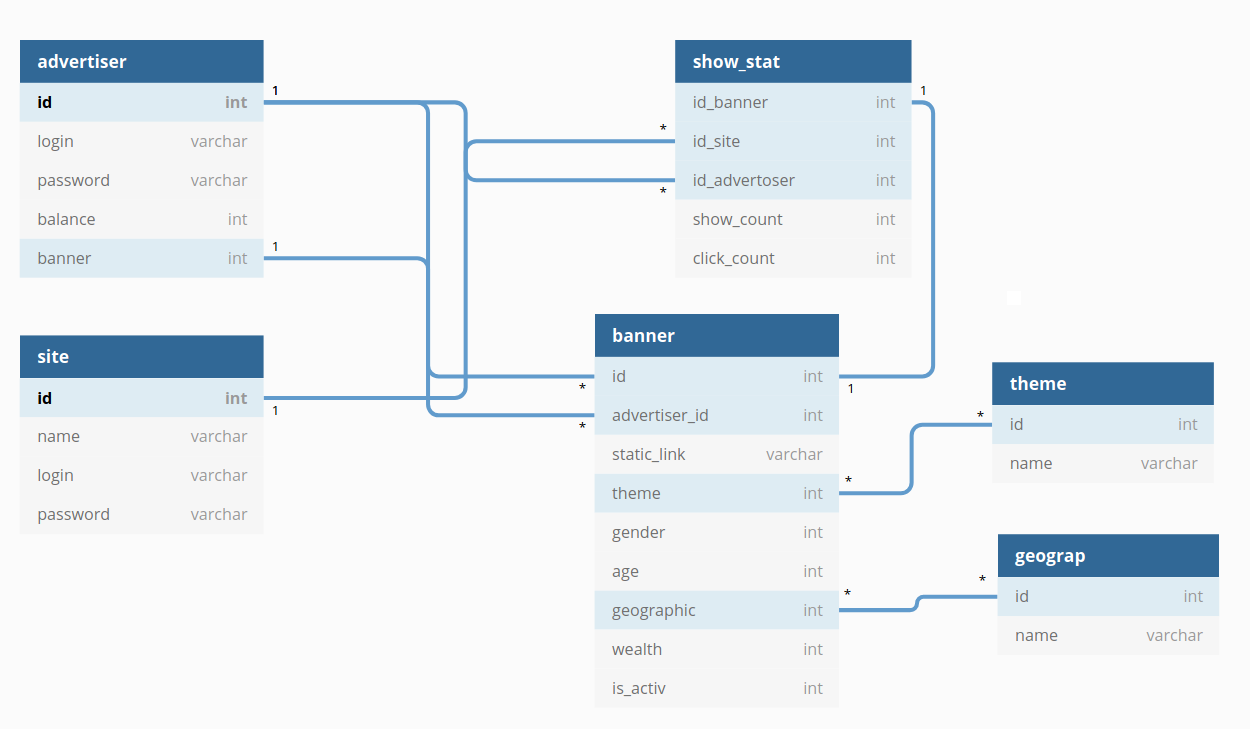
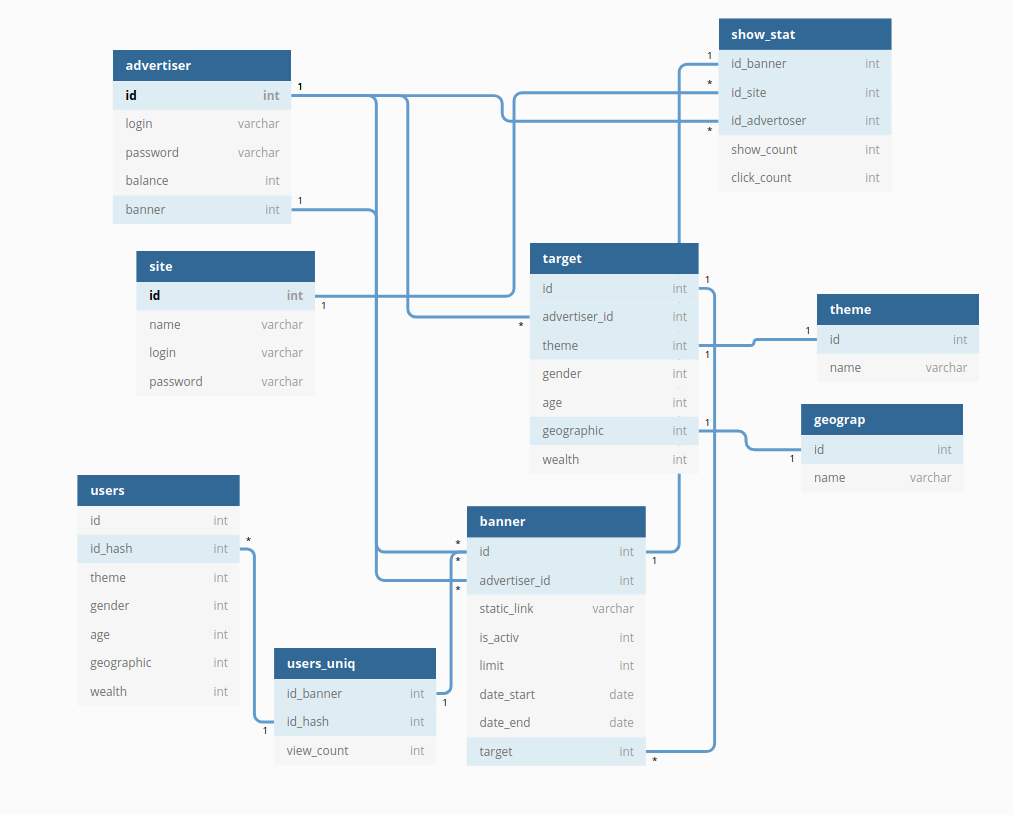
fix

diff --git a/README.md b/README.md
@@ -2,7 +2,7 @@
 
 ## 1. Выбор темы
 
-#### Система контекстной рекламы
+#### Система таргетинговой рекламы
 
 Похожие сервисы: my target, РСЯ
 
@@ -32,9 +32,8 @@
      + Общая аудитория — 100 миллионов пользователей (85% рунета)
      + Среднесуточная аудитория — 75 миллионов пользователей
      + Средний размер контента — 200 КБ
-     + RPS — 2000 (уточнял на сдачи ДЗ 3)
-     + request per day — 172 800 000
-     + Нагрузка на статику RPS * вес объявления (без оверхеда протоколов) — 0.3 ГБ/с
+     + RPS — 200 000 (пик активности 400 000)
+     + Нагрузка на статику RPS * вес объявления (без оверхеда протоколов, без сжатия) — 57,22 ГБ/с
      
 
 ## 4. Логическая схема базы данных
@@ -47,16 +46,30 @@
 
 * Таблица banner 
     + static_link ссылка на файл объявления
-    + theme - связь с таблицей тематик
-    + gender - пол ЦА (0 - муж, 1 - жен, 3 - не важен)
-    + age - возраст (заранее определенный id для возраста или комбинаций возрастов)
-    + geographic - связь с таблицей месторасположения
-    + wealth - уровень обеспеченности (1-10, 11 - не важен)
     + is_activ - статус объявления (0 -  не активно, 1 - активно, 2 - на модерации, 3 - блокировка)
-    + Данная таблица может дополниться новыми необходимыми параметрами для объявления, url для перехода.
+    + limit - ограничение показов
+    + date_start/end - временное ограничение показов
+    + target - ссылка на таргетинг
+
+* Таблица target (таблица для таргетингов компании) 
+     + theme - связь с таблицей тематик
+     + gender - пол ЦА (0 - муж, 1 - жен, 3 - не важен)
+     + age - возраст (заранее определенный id для возраста или комбинаций возрастов)
+     + geographic - связь с таблицей месторасположения
+     + wealth - уровень обеспеченности (1-10, 11 - не важен)
     
     
 * Таблица show_stat для сбора статистики по показам и переходам   
+
+* Таблица users_uniq - это таблица для отслеживания уникальных пользователей.
+Для определения уникального пользователя используется комбинация из ip, браузера или профиля на ресурсе
+и параметров пользователя(см. таблица target). Дальше все эти параметры преобразуются в один массив байт и передаются в хеш функцию.
+Хеш функцию стоит выбирать исходя из скорости её работы. Криптографическая стойкость роли не играет.
+После получения хеша мы сравниваем с хешом id_hash в БД. При совпадении увеличиваем view_count для данного банера.
+Если совпадения нет - добавляем запись.
+
+* Таблица users хранит пользователей с их параметрами.
+
     
 ## 5. Физическая системы хранения
 
@@ -69,12 +82,12 @@
 распространена и нам будет проще поддерживать и обеспечивать её работу. Еще отметим мощный механизм
 репликации. 
 
-#### Объявления и параметры объявлений (Tarantool)
+#### Объявления, таргетинги, пользователи (Tarantool)
 Для быстрой отдачи объявлений я решил использовать in-memory DB Tarantool. К главными
 преимуществам БД стоит отнести скорость, возможность репликации и шардинга (фреймворк Cartridge 
 упрощает реализацию и обеспечивает отказоустойчивость, переключаясь между серверами).
 Данные объявления меняются крайне редко (процесс модерации объявления), нет 
-необходимости часто экстренно синхронизовать реплики.
+необходимости часто экстренно синхронизовать реплики. Есть многокомпонентный индекс.
 Шардинг по группам тематик. (Разделяем логически тематики так, чтобы группы тематик не комбинировались между собой)
 Еще к плюсам можно отнести, что разработка данной БД идет в нашей стране.(дока-поддержка без перевода)
 
@@ -87,7 +100,7 @@
 Еще к плюсам можно отнести линейную масштабируемость и тот факт, что данные записываются пачками.
 Для статистики нам не нужна строгая резкая репликация, нам подойдет асинхронная репликация из ClickHouse.
 
-Статические файлы (bundle.js, index.html, css, все объявления хранятся на отдельном сервере со статикой - nginx)
+Статические файлы (bundle.js, index.html, css, все объявления хранятся на отдельных серверах со статикой - nginx)
 
 ## 6. Выбор прочих технологий
 
@@ -110,6 +123,39 @@
 
 * Сервис статистики - сервис для сбора статистики и логов по объявлениям.
 
+#### Взаимодействие между микросервисами
+
+* Сервис для управления ( для рекламодателей / конечных распространителей). Основные функции:
+    * Регистрация рекламодателя / площадки распространения. Создается запись в таблице advertiser / site.
+    Обращение к БД Postgres.
+    * Создание таргетинга  Создается запись в таблице target. Обращение к Tarantool.
+    * Создание объявлений. Создается запись в таблице banner. Обращение к Tarantool.
+    * Управление объявлением. Покупка limit у banner за balance. Обращение к Tarantool.
+    * Интерфейс для просмотра статистики. Интерфейс фильтров для запросов к ClickHouse. 
+
+    
+* Сервис объявлений
+    * Выдача объявлений. После чтения параметров запроса выполняется обращение к Tarantool с целью найти необходимое
+    объявление. Для определения "подходит ли нам это объявление" используется таблица target,
+    которая связана с banner.target.
+    * Отправка статистики. Строго после ответа конечному распространителю
+    выполняется запрос к ClickHouse. Запрос представляет собой лог происходящего и состоит из:
+    время отдачи объявления, id_объявления, id_таргетинга, advertiser_id, id_site. 
+    
+* Сервис статистики
+    * Сбор статистики. Предоставляет api для принятия статистики для сервиса объявлений.
+    После принятия запроса выполняется запись в ClickHouse. Все параметры записываются в одну таблицу.
+    Существуют также таблицы(в ClickHouse, чтобы не грузить другие БД при запросе статистики, нет на схеме БД)
+    для информации об объявлении, таргетинге, site.
+    Для улучшение скорости работы можно добавить отдельную таблицу - banner_show (объявления, инкремент показов).
+    Отметим, что за недостающей информацией сервис статистики может обратиться к БД Tarantool, в которой хранятся
+    таргетинги и объявления. Пример: Пришла запись с id_таргетинга, которого нет в ClickHouse. Сервис статистики
+    делает запрос к Tarantool для получения детальной информации о таргетинге по его id. Записывает информацию
+    о таргетинге и больше не спрашивает Tarantool по-данному таргетингу.
+    * Предоставление статистики. Предоставляет api для выдачи статистики для сервиса управления.
+    api способно обработать различные фильтры от сервиса управления и предоставить результат.      
+     
+
 #### Языки программирования
 
 * Сервис для управления и сервис статистики - Golang. Golang - современный, развивающийся язык, который заточен под
@@ -131,27 +177,23 @@
 * На стороне клиента - html, css, js. (+ получатели объявления могут являться моб клиентами)
 
 
-#### Отложенное выполнение для оптимизации
-Стоит дополнительно описать процесс подбора-выдачи объявления: при поступлении запроса упор делается 
-на скорость ответа. Сразу после подбора объявления оно отдается запросившему и сокет с запросившем клиентом закрывается.
-Только после этого выполняется запись о происходящем в сервис для статистики.
-
 
 ## 7. Расчет нагрузки и потребного оборудования
 
-#### Определим 5 основных типа серверов
+#### Определим 6 основных типа серверов
 
 * Бэк объявлений(C++)
 * Бэк для рекламодателя/площадки(Go)
 * БД для рекламодателя/площадки(Postgres)
 * БД для подбора объявления(Tarantool)
+* БД для хранения пользователи с таргетингами(Tarantool)
 * БД для сессий рекламодателей/площадки(Redis)
 
 
-* Бэк для выдачи объявлений
+* Бэк для выдачи объявлений/БД для подбора объявления
 ![db](./compute_cloud.png)
 
-Мощность бэка для рекламодателя/площадки составляет 1/4 бэка для выдачи объявлений
+Мощность бэка для рекламодателя/площадки составляет 1/20 бэка для выдачи объявлений
 
 * Postgres
 
@@ -169,9 +211,62 @@
 
 ####  Расчет нагрузки
 
-Как понять общий RPS на объявления? 2000(спрашивал на сдаче дз) это же мало
+Для расчета нагрузки обозначим, что нам необходимо иметь 20% запас RPS от максимального
+значения в течение дня.
 
-Сколько  будет выдавать моя конфигурация? (Бэк для выдачи объявлений)
+RPS: 480 000
+
+* Бэк отдача объявлений: 6 80-ти поточных серверов
+
+* БД для рекламодателя/площадки: 3 64-ти поточных серверов (master и 2 slave)
+
+* Бэк рекламодателя/площадки: 3 16-ти поточных сервера
+
+* БД для подбора объявления: 6 32-ти ядерных сервера + 6 шт на реплику
+
+* БД для хранения пользователи с таргетингами: 6 32-ти ядерных сервера + 6 шт на реплику
+
+* БД для сессий рекламодателей/площадки(Redis): 1 16-ти поточный сервер
+
+* Nginx: 6 32-поточных серверов (включая балансировщик на шарды Tarantool, шарды для таблицы пользователей)
+
+* Для обеспечения отказоустойчивости необходимо иметь готовые сервера, которые могут заменить упавшие рабочие.
+Для каждого типа запасаем +1 сервер с таким же железом и готовым ПО.
+
+
+#### Алгоритмическая сложность запроса Tarantool, пропускная способность
+В БД мы используем btree индексы и производим поиск за log2(N).
+Выборка из активных log2(100 000) =~ 17.
+Максимальное кол-во поисков 6 (5 - параметры таргетинга, 1 поиск баннера).
+Итого 102 (17*6) сравнения при поиске.
+Для памяти с эффективной частотой 3200 МГц максимальная пропускная способность составит 3200 × 8 = 25 600 МБ/c
+Предположим средний размер записи, учитывая:
+
+* id int - 8
+* advertiser_id int - 8
+* theme int - 8
+* gender int - 8
+* age int - 8
+* geographic int - 8
+* wealth int - 8
+Итого длина записи 56 байт.
+Индекс на одну запись 8 байт * 6 полей = 48 байт.
+
+Максимальное кол-во байт для чтения индекса таргетинга = 48 * 102 = 4896 байт. (0,0047 МБ)
+Для 400 000 PRS - 1 880 МБ. Теоретически нам хватает пропускной способности памяти, но тут были посчитаны
+только индексы, не учитывается время сравнения при поиске, еще отметим что пропускная способность памяти в 25 600 МБ/c не всегда достижима.
+
+Сделан вывод, что для достаточно приблизительного ответа на вопрос о нагрузке Tarantool необходимо поднять
+собственный тестовый стенд с боевой конфигурацией и боевым размером данных. Для определения кол-ва серверов
+воспользуемся [калькулятором](https://www.tarantool.io/ru/sizing_calculator/)
+ 
+
+![tarantool](./tarantool.png)
+
+Выбрать можно было только 16 ядер. Для нашей конфигурации будем использовать 32 ядерные процессоры, 6 штук. 
+
+
+
 
 
 ## 8. Выбор хостинга / облачного провайдера и расположения серверов
@@ -189,7 +284,10 @@
 
 ## 9. Схема балансировки нагрузки (входящего трафика и внутрипроектного, терминация SSL)
 
-* Для балансировки будем использовать nginx(L7). Плюс данного решения в том, что мы сможем
+* DNS. Укажем несколько IP в А записях. При обращении будет использоваться алгоритм Round Robin.
+Отметим, что в случае отказа бэка, все запросы будут отправляться к нему из-за dns кеша. 
+
+* nginx(L7). Плюс данного решения в том, что мы сможем
 использовать уже реализованные механизмы балансировки. Так как бэкенды для отдачи объявления будут одинаковые по
 характеристикам, то будем использовать алгоритм балансировки round-robin. Еще к плюсам nginx можно отнести
 распространенность, http2, ssl (от nginx до бэка трафик не будет шифроваться) 
@@ -212,4 +310,11 @@
 * Установка timeout nginx (99% всех запросов)
 * Согласование внештатных ситуаций с облачным провайдером (DDos, физ повреждения и тд)
 * Prometheus, Grafana, собственные дашборды, node exporter, уведомления дежурных сотрудников обеспечат нас
-средствами мониторинга 
+средствами мониторинга
+* Статические файлы объявлений, которые раздает nginx, находятся  заранее в жатом формате. (nginx не тратит время на сжатие)
+* Установка rate лимитов на api. (limit_req_zone rate=15r/m)
+* Необходимо заранее отработать ситуацию автоматического поднятия сервера на смену упавшему (заранее имеем готовую железку).
+Серверу, который начала работать вместо старого, необходимо выдать ip упавшего сервера - необходимое условие для dns балансировки. 
+* Замена на DDR5 при выходе стандарта на глобальный рынок. Ключевой элемент системы напрямую зависит от скорости работы с памятью.
+ 
+ 
